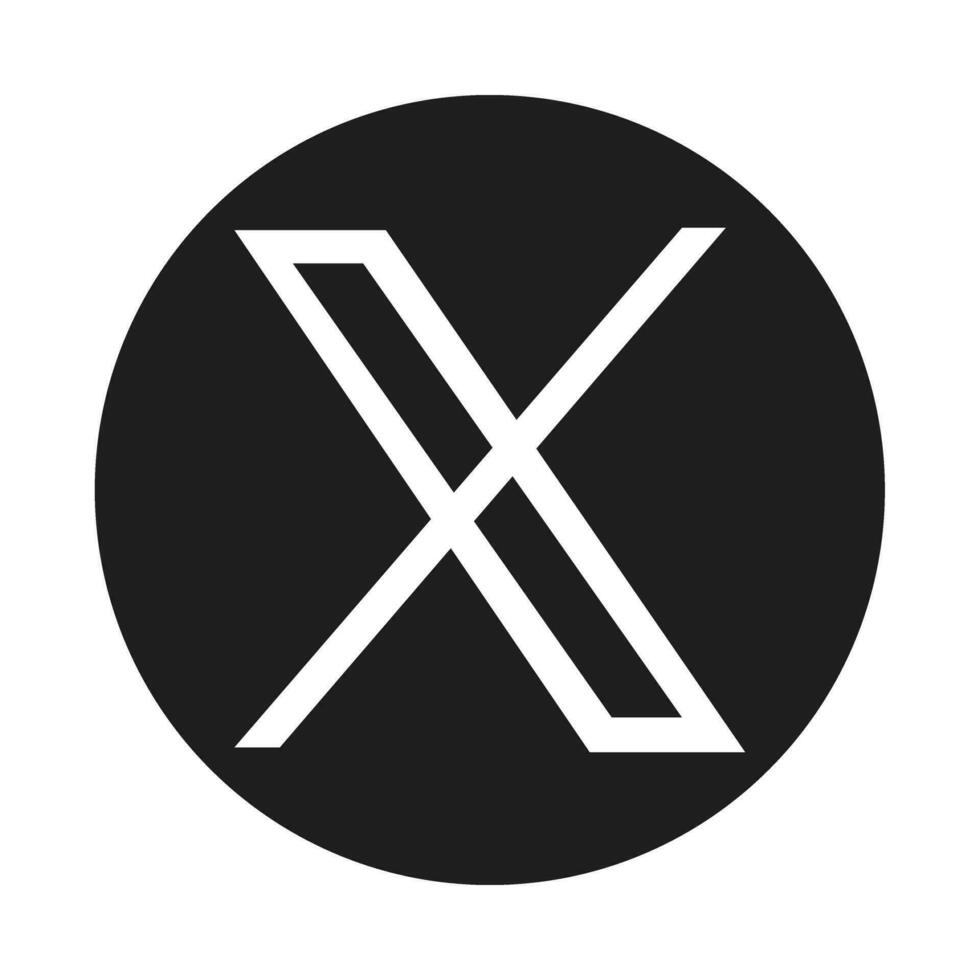
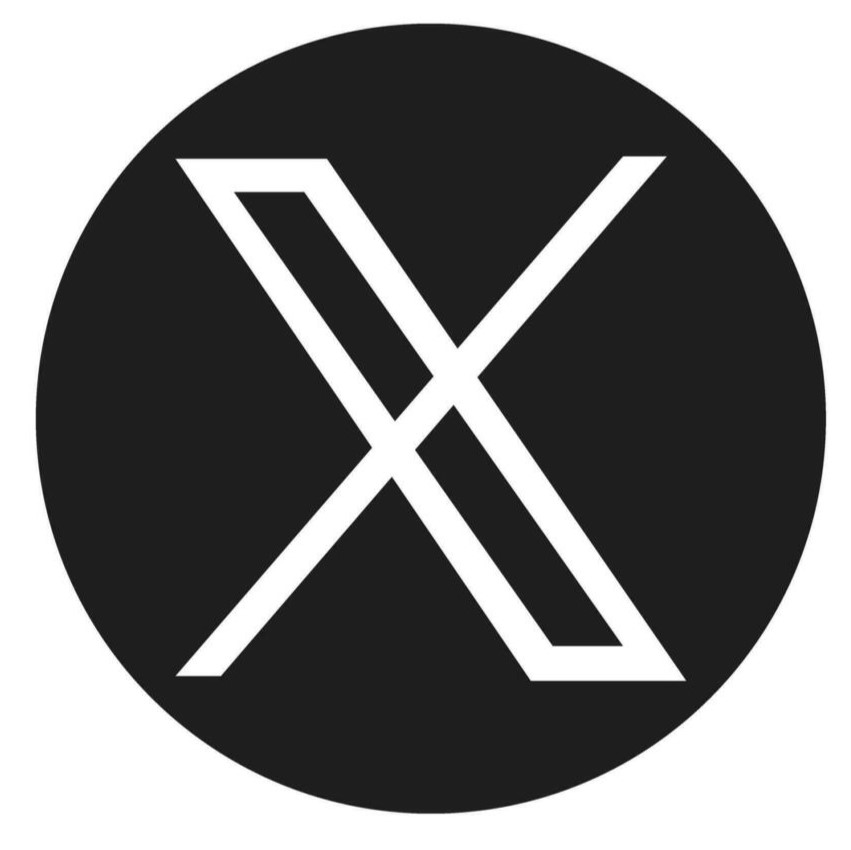
fixed contact me instagram link, resized all images so that contact me links would look alike

diff --git a/index.html b/index.html
@@ -83,7 +83,7 @@ create them.</pre>
                 <a href="https://discord.com/channels/@ikail.i2"><img class="contact-me"
                         src="./assets/images/discord.png" alt="Discord"></a>
                 <a href="https://www.instagram.com/danieltapia.i/"><img class="contact-me"
-                        src="/assets/images/instagram.jpg" alt="Instagram"></a>
+                        src="./assets/images/instagram.png" alt="Instagram"></a>
                 <a href="https://twitter.com/Danieltapia_i"><img class="contact-me" src="./assets/images/x-tweet.jpg"
                         alt="X"></a>
                 <a href="https://github.com/AdrianxDaniel"><img class="contact-me" src="./assets/images/github.png"
